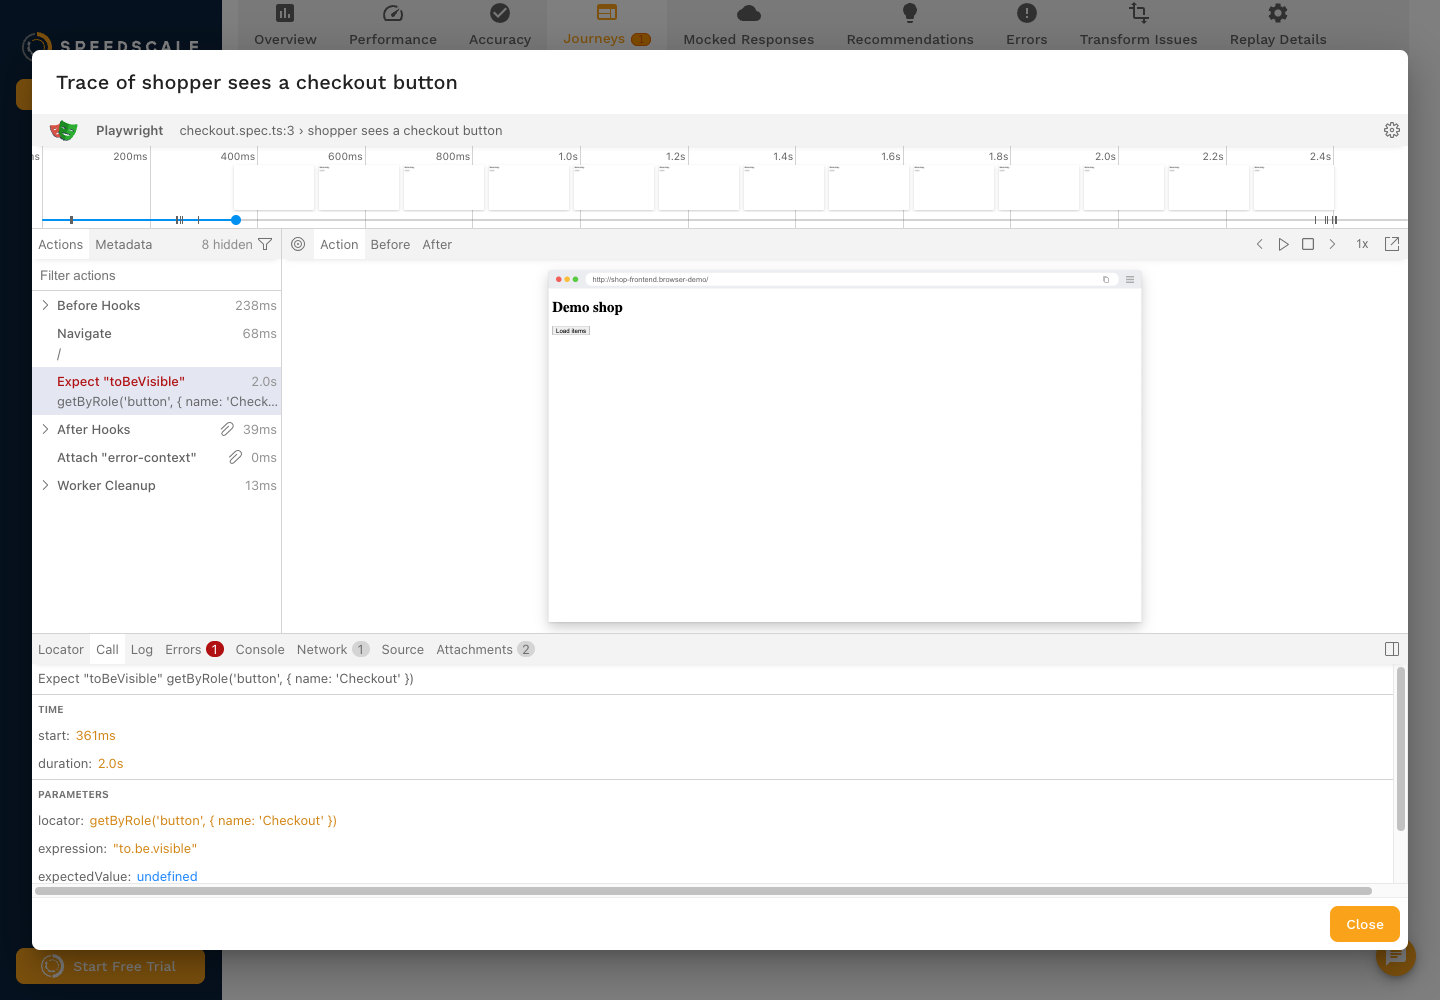
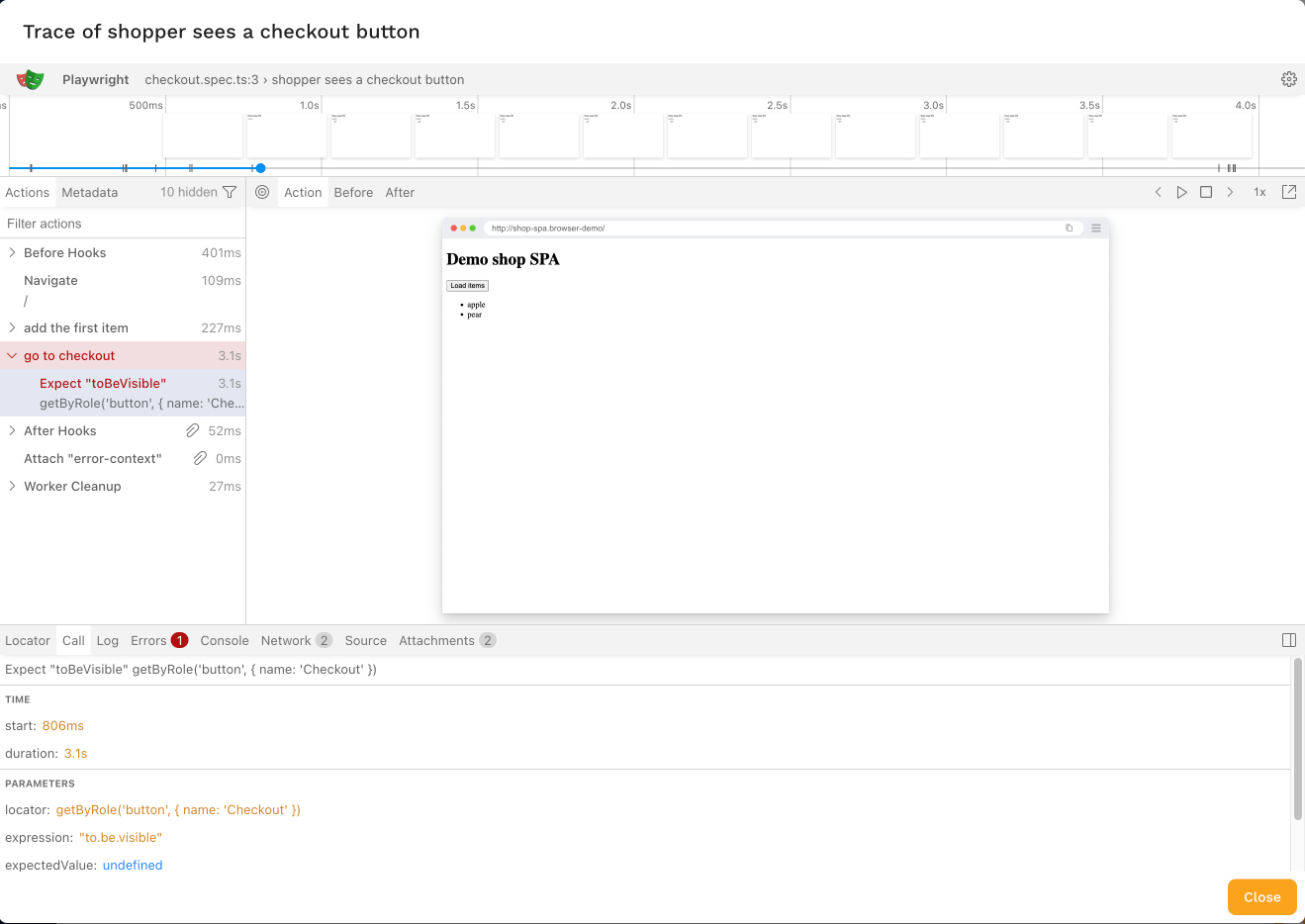
[S-13814] Use dev.speedscale.com screenshots for browser journeys
Replace the demo-mode report screenshots with ones from a real browser
journey replay on dev: the Journeys tab, a failed journey's files, the
embedded trace viewer and the replay launcher's Browser journeys
template. The changed-calls example moves to Mocks and real APIs.

diff --git a/docs/guides/browser-journeys/read-results.md b/docs/guides/browser-journeys/read-results.md
@@ -8,7 +8,7 @@ sidebar_position: 4
 
 A replay that ran journeys gets a **Journeys** tab in its report. The tab's badge counts the journeys that failed.
 
-![The report's Journeys tab for a failed journey, "shopper loads the item list": its steps are listed with their category, the click step made 2 calls and the real API answered GET http://api.demo.test/items differently from the recording (Body JSON), the expect step failed with the expected and received list items, and a box below names one more call answered differently, GET http://api.demo.test/session (Status Code)](./images/report-journeys-tab.png)
+![The report's Journeys tab for a replay of three journeys: 2 passed, 1 failed, with p95 LCP, FCP, TTFB and CLS chips. The expanded journey "shopper pages through the items" lists its steps with their category: Navigate to "/" with 1 call, the test.step "load the item list" with its click (1 call) and expect, and the test.step "load the next page" with 1 call, followed by the web vitals of its last page](./images/report-journeys-tab.png)
 
 ## Journeys
 
@@ -50,6 +50,8 @@ Above the table, the tab shows each vital's p95 across all journeys.
 
 Playwright keeps a screenshot, a trace and an error context for each failed journey, and the expanded journey shows them. The files are not redacted: they show what the page showed.
 
+![A failed journey's files in the Journeys tab: the web vitals of its last page, the screenshot Playwright took when the journey failed (the demo shop with its item list but no Checkout button), an Open trace button, download buttons for the screenshot, error context and trace, and the npx playwright show-trace command](./images/report-failed-journey-files.png)
+
 - **Screenshot.** The page as it was when the journey failed, shown under the steps.
 - **Open trace.** Opens the trace in Playwright's trace viewer inside the dashboard. The viewer replays the journey action by action, with a snapshot of the page before and after each one, the console, the network calls and the error. The trace is read in your browser and is not sent anywhere else.
 - **Downloads.** Each file also downloads under its own name, for example to open a trace on your machine:
@@ -58,7 +60,7 @@ Playwright keeps a screenshot, a trace and an error context for each failed jour
 npx playwright show-trace trace.zip
 ```
 
-![The dashboard's trace viewer open on the failed journey "shopper sees a checkout button": the action list shows the page load and the failed Expect "toBeVisible", the snapshot pane shows the Demo shop page with only a Load items button, and the Call tab shows the expect's locator and timing](./images/report-trace-viewer.png)
+![The trace viewer open in the dashboard on the failed journey "shopper sees a checkout button": the action list shows the named step "go to checkout" and its failed Expect "toBeVisible", the snapshot pane shows the demo shop page at that moment, and the Call tab shows the Checkout button locator and the 3.1 second duration](./images/report-trace-viewer.png)
 
 A cloud-free cluster replay keeps these files in the cluster instead, and `proxymock cluster replay start --wait` downloads them; see [Run journeys in a cluster](./run-in-cluster.md#from-the-command-line).
 

diff --git a/docs/guides/browser-journeys/mocks-and-real-apis.md b/docs/guides/browser-journeys/mocks-and-real-apis.md
@@ -44,6 +44,8 @@ Turn mocks off with:
 
 The proxy compares the status code and the response body, the same checks as the [status code](../../reference/configuration/assertions/httpstatuscode.md) and [response body](../../reference/configuration/assertions/httpresponsebody.md) assertions. Calls that differ are named on the step that made them, with what differed, such as `GET https://api.example.com/items (Body JSON)`. Fields that change on every call, such as timestamps and request IDs, show up as differences.
 
+![A failed journey whose calls went to the real APIs: under its click step, the Journeys tab names GET http://api.demo.test/items as answered differently from the recording by the real API (Body JSON), and a box below the steps names GET http://api.demo.test/session (Status Code), a call no step claims](./images/report-changed-calls.png)
+
 In a Speedscale cloud report, the analyzer also scores each observed call (see [How each call is scored](#how-each-call-is-scored)). It uses the test config's assertions when the config sets any, so you can ignore those changing fields there, and status code and response body otherwise. A cloud-free cluster replay does not score observed calls; run it with `--snapshot-source cloud` to get them scored.
 
 ## How each call is scored

diff --git a/docs/guides/browser-journeys/run-in-cluster.md b/docs/guides/browser-journeys/run-in-cluster.md
@@ -64,6 +64,8 @@ Then open the replay launcher for that snapshot at `/replay-launcher?snapshotId=
 5. Check the goals under **Test settings**. The template starts with **Browser journeys passing ≥ 100%**.
 6. Select **Start**. When the replay finishes, open its report's **Journeys** tab; see [Read the results](./read-results.md).
 
+![The replay launcher with the Browser journeys template: the summary reads "Run 2 browser journeys against http://shop-spa.browser-demo:80 in mattintosh / default, answering their API calls from the recording, and pass if Browser journeys passing ≥ 100%", System under test holds the Frontend URL and names the snapshot's specs, and Mocks has the switch Answer the frontend's API calls from the recording turned on](./images/launcher-browser-journeys.png)
+
 The run panel beside the launcher shows the `proxymock cluster replay start --browser` command for the same run, for a replay from your machine's copy of the journeys and recording.
 
 ## In a test config
